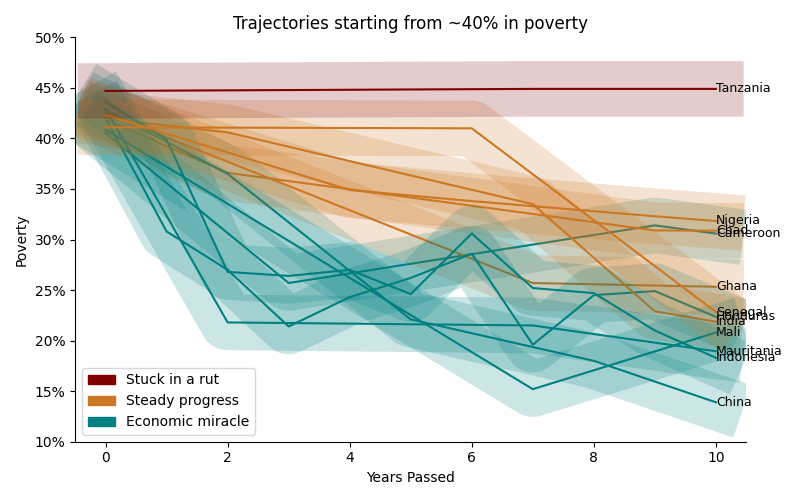
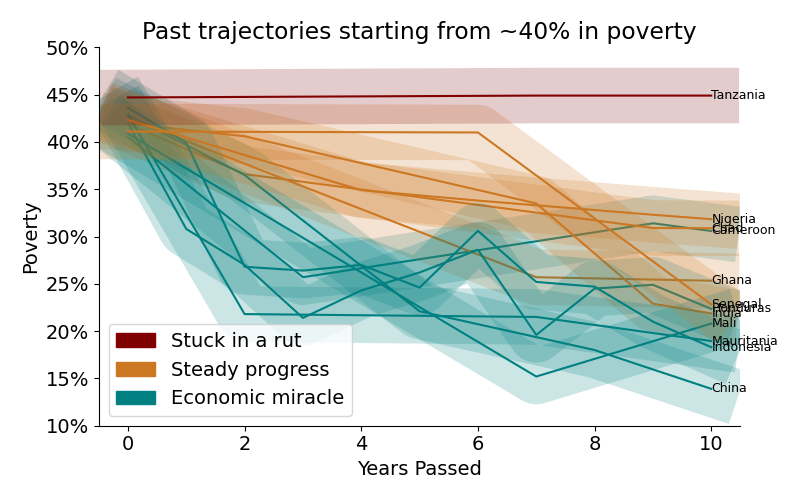
tidy up code

diff --git a/gbtm.py b/gbtm.py
@@ -6,39 +6,54 @@ from matplotlib.ticker import FuncFormatter
 import matplotlib.pyplot as plt
 import seaborn as sns
 import matplotlib.patches as mpatches
+import matplotlib as mpl
+from process_data import read_and_rename_raw_data
 
-from process_data import rename_raw_data
+# ----- Script for looking at individual country: and exploring its future poverty using GBTM of other countries in the past
+# ************ Needs refactoring to work for general case of any country - currently hard coded for Uganda *****************
 
-df_renamed = rename_raw_data()
+df_renamed = read_and_rename_raw_data()
 
+
+# Quick look at Uganda
 df_uganda = df_renamed[df_renamed["country"]=="Uganda"]
 df_uganda = df_uganda[["country", "date", "Poverty headcount ratio at $2.15 a day (2017 PPP) (% of population)", "GDP per capita (current US$)"]]
 df_uganda = df_uganda.dropna()
 
 print(df_uganda[df_uganda["date"]==2019])
 
-
 GDP_RANGE = [750, 2000]
+
+# Uganda's most recent poverty is 42% so looking either side
 POVERTY_STARTING_POINT_RANGE=[37, 47]
 
 def percent_formatter(x, pos):
     return f"{x:.0f}%"
 
+# plotting Uganda's poverty trajectory to date
 fig = plt.figure(figsize=(6, 2))
 plt.plot(df_uganda['date'].values, df_uganda["Poverty headcount ratio at $2.15 a day (2017 PPP) (% of population)"].values, color='#008080')
 plt.title('Uganda: Poverty trajectory to date')
 plt.ylabel('Poverty')
 plt.ylim(35, 80)
+plt.xlim(1992, 2020)
+plt.axvspan(1990, 2002, color='#800000', alpha=0.1)
+plt.text(1995, plt.ylim()[1]*0.9, 'Phase 1', fontsize=10, ha='left')
+plt.axvspan(2002, 2012, color='#008080', alpha=0.1)
+plt.text(2005, plt.ylim()[1]*0.9, 'Phase 2', fontsize=10, ha='left')
+plt.axvspan(2012, 2020, color='#800000', alpha=0.1)
+plt.text(2013, plt.ylim()[1]*0.9, 'Phase 3', fontsize=10, ha='left')
 plt.gca().yaxis.set_major_formatter(FuncFormatter(percent_formatter))
 fig.savefig('figs/Uganda_past.png', dpi=fig.dpi)
 plt.show()
 
+
 def interpolate_and_mark(df):
     """function to interpolate between values for poverty and gdp per capita"""
     df = df.reset_index(drop=True)
-
     # Define function to interpolate and mark within each group
     def group_interpolate_and_mark(group):
+
         # Detect original NaNs for poverty and GDP - keep track of which values are interpolated and which were original
         poverty_nan_mask = group['poverty'].isna()
         gdp_nan_mask = group['GDP per capita (current US$)'].isna()
@@ -84,7 +99,7 @@ def countries_of_interest(df, gdp_range = GDP_RANGE, poverty_range=POVERTY_START
     return(df["country"].unique())
 
 
-# plotting countries to compare to Uganda's past
+# Extracting the historic trajectories for chosen countries 
 def find_trajectories(df, countries, start_poverty_level = 42):
     """function that finds creates dataframe of trajectories based on a year 0 corresponding to the starting poverty level"""
     # Filter to include only the chosen countries
@@ -125,8 +140,8 @@ def gbtm(df, number_of_groups=3):
     scaler = StandardScaler()
     scaled_data = scaler.fit_transform(pivot_data)
 
-    # Fit a Gaussian Mixture Model
-    # The number of trajectories you hypothesize
+    # Fit a gaussian mixture model
+    # The number of clusters or groups can be adjusted
     n_clusters = number_of_groups
     gmm = GaussianMixture(n_components=n_clusters, random_state=0)
     gmm.fit(scaled_data)
@@ -134,16 +149,17 @@ def gbtm(df, number_of_groups=3):
     # Predict the cluster for each country
     clusters = gmm.predict(scaled_data)
 
-    # Add the cluster labels to the DataFrame
+    # Add the cluster labels to the dataframe
     pivot_data['Cluster'] = clusters
 
     original_data = scaler.inverse_transform(scaled_data)
     original_data_df = pd.DataFrame(original_data, index=pivot_data.index, columns=pivot_data.columns[:-1])
 
-    # Add cluster information back to the DataFrame with original data
+    # Add cluster information back to the dataframe with original data
     original_data_df['Cluster'] = clusters
     palette = ["#CC7722", "#800000", "#008080"]
     # Set up the plot
+    mpl.rcParams.update({'font.size': 14})
     fig = plt.figure(figsize=(8, 5))
     
     # Plot each country's poverty trajectory
@@ -152,12 +168,13 @@ def gbtm(df, number_of_groups=3):
         plt.plot(row.index[:-1].values, row.values[:-1], linewidth=40, color=palette[int(row["Cluster"])], alpha=0.2, label='_nolegend_')
         plt.text(row.index[-2], row.values[-2], index, fontsize=9, va='center', ha='left')
     
-    # Enhance the plot
-    plt.title('Trajectories starting from ~40% in poverty')
+    # improve the plot
+    plt.title('Past trajectories starting from ~40% in poverty')
     plt.xlabel('Years Passed')
     plt.ylabel('Poverty')
     plt.legend(title='Cluster', bbox_to_anchor=(1.05, 1), loc='upper left')
     sns.despine()
+    # Define memorable names for each cluster
     patch1 = mpatches.Patch(color='#800000', label='Stuck in a rut')
     patch2 = mpatches.Patch(color='#CC7722', label='Steady progress')
     patch3 = mpatches.Patch(color='#008080', label='Economic miracle')
@@ -170,7 +187,7 @@ def gbtm(df, number_of_groups=3):
     return(pivot_data)
 
 
-df_renamed = rename_raw_data()
+df_renamed = read_and_rename_raw_data()
 df_clean = clean_data_for_trajectory_analysis(df_renamed)
 
 chosen_countries = countries_of_interest(df_clean)

diff --git a/causes_of_poverty.py b/causes_of_poverty.py
@@ -4,11 +4,14 @@ import statsmodels.api as sm
 import matplotlib.pyplot as plt
 from matplotlib.ticker import FuncFormatter
 import matplotlib as mpl
+from process_data import read_and_rename_raw_data, max_recent_yr
 
-from process_data import rename_raw_data, max_recent_yr
+
+# ----- Script for exploring factors (through linear regression) that cause poverty within the GDP corridor ---
 
 GDP_RANGE = [750, 2000]
 
+# variables chosen to explore
 VARS_OF_INTEREST = [
     "Access to electricity (% of population)",
     "Age dependency ratio (% of working-age population)",
@@ -28,6 +31,7 @@ VARS_OF_INTEREST = [
     "Ores and metals exports (% of merchandise exports)"
 ]
 
+# vairables that need to be adjuster for population of the country
 VARS_TO_ADJUST_PER_POP = [
     "Armed forces personnel, total",
     "Foreign direct investment, net inflows (BoP, current US$)",
@@ -35,7 +39,7 @@ VARS_TO_ADJUST_PER_POP = [
 ]
 
 def relevant_metrics_data(df):
-    #select relevant cols
+    """function to select relevant variables for analysis and adjust for population where needed"""
     df = df[["country", "date", "Population, total", "Poverty headcount ratio at $2.15 a day (2017 PPP) (% of population)"]+ VARS_OF_INTEREST + VARS_TO_ADJUST_PER_POP]
     df[VARS_TO_ADJUST_PER_POP] =  df[VARS_TO_ADJUST_PER_POP].div(df['Population, total'], axis=0)
     shortened_metric = {
@@ -44,17 +48,18 @@ def relevant_metrics_data(df):
     df.rename(columns=shortened_metric, inplace=True)
     return(df)
 
-def filter_in_window_of_interest(df, gdp_range=GDP_RANGE):
+def filter_in_corridor_of_interest(df, gdp_range=GDP_RANGE):
+    """function to look only at countries within our corridor of interest"""
     df = df[(df['GDP per capita (current US$)'] > gdp_range[0]) & (df['GDP per capita (current US$)'] < gdp_range[1])]
     return(df)
 
 def percent_formatter(x, pos):
     return f"{x:.0f}%"
 
-def analyze_poverty_relationship_and_plot(df, dependent_var='poverty', min_r2 = 0.01):
+def analyse_poverty_relationship_and_plot(df, dependent_var='poverty', min_r2 = 0.01):
     # Replace infinities with NaN
     df = df.replace([np.inf, -np.inf], np.nan)
-    
+
     # Specifying predictors excluding 'country' and dependent variable
     predictors = [col for col in df.columns if col not in ['country', dependent_var]]
     
@@ -85,7 +90,7 @@ def analyze_poverty_relationship_and_plot(df, dependent_var='poverty', min_r2 = 
             'P-Value': model.pvalues[1]
         })
 
-        # Plot if R-squared > above threshold using actual values
+        # Plot if R-squared > above threshold using actual rather than normalised values
         if r_squared > min_r2:
             # Actual data for plotting
             actual_x = subset[predictor].values
@@ -111,12 +116,12 @@ def analyze_poverty_relationship_and_plot(df, dependent_var='poverty', min_r2 = 
     return results_df
 
 
-df_renamed = rename_raw_data()
+df_renamed = read_and_rename_raw_data()
 df_simplified = relevant_metrics_data(df_renamed)
 max_year_poverty_by_country = max_recent_yr(df_simplified)
-in_range_countries = filter_in_window_of_interest(df_simplified)
+in_range_countries = filter_in_corridor_of_interest(df_simplified)
 
-regression_table = analyze_poverty_relationship_and_plot(in_range_countries)
+regression_table = analyse_poverty_relationship_and_plot(in_range_countries)
 regression_table = regression_table[regression_table["R-squared"] > 0.2]
 
 print(regression_table)

diff --git a/process_data.py b/process_data.py
@@ -1,5 +1,6 @@
 import pandas as pd
 
+# We are only interested in individual countries not regions
 EXLCUDED_REGIONS = [
     "Africa Western and Central",
     "Africa Eastern and Southern",
@@ -47,19 +48,21 @@ EXLCUDED_REGIONS = [
     "Upper middle income",
     "Not classified"] 
 
-def rename_raw_data(raw_data_filepath = "data/data_manager.csv", indicator_ids_filepath = "data/indicator_ids.csv"):
-    #read in data
+def read_and_rename_raw_data(raw_data_filepath = "data/data_manager.csv", indicator_ids_filepath = "data/indicator_ids.csv"):
+    """function to read in raw data, remove regions and rename indicator codes with their actual descriptions for easier interpretation"""
+    # read in raw fata
     df_raw = pd.read_csv(raw_data_filepath)
     df_indicator = pd.read_csv(indicator_ids_filepath)
+    # exlcude regions from dataset
     df_raw = df_raw[~df_raw['country'].isin(EXLCUDED_REGIONS)]
-    #rename columns
+    # rename columns
     indicator_codes = set(df_raw.columns)
     df_indicator_filtered = df_indicator[df_indicator['indicator_id'].isin(indicator_codes)]
     code_to_metric = dict(zip(df_indicator_filtered['indicator_id'], df_indicator_filtered['indicator']))
     df_raw.rename(columns=code_to_metric, inplace=True)
     return(df_raw)
 
-# llooking only at the most recent data for each country 
+# looking only at the most recent poverty data for each country 
 def max_recent_yr(df, min_yr = 2015):
     df = df[df['poverty'].notnull()]
     df = df[df["date"] >= min_yr]

diff --git a/explore_data.py b/explore_data.py
@@ -1,30 +1,17 @@
 import pandas as pd
 
+
+# -----------------ROUGH EXPLORATION OF DATA ----------------------
+
+
 raw_data_filepath = "data/data_manager.csv"
 indicator_ids_filepath =  "data/indicator_ids.csv"
-# process data manager 
-def process_poverty_data():
-    # read in raw data
-    df_raw = pd.read_csv(raw_data_filepath)
-
-    # read in indicator details 
-    df_indicator = pd.read_csv(indicator_ids_filepath)
-
-    #rename column headers
-    code_to_metric = dict(zip(df_indicator['indicator_id'], df_indicator['indicator']))
-
-    df_renamed = df_raw.rename(columns=code_to_metric, inplace=True)
-
-    return(df_renamed)
-
-
 
 df_raw = pd.read_csv(raw_data_filepath)
 df_indicator = pd.read_csv(indicator_ids_filepath)
 
 indicator_codes = set(df_raw.columns)
 
-# Step 3: Filter df2 to include only indicator codes present in df1
 df_indicator_filtered = df_indicator[df_indicator['indicator_id'].isin(indicator_codes)]
 
 code_to_metric = dict(zip(df_indicator_filtered['indicator_id'], df_indicator_filtered['indicator']))

diff --git a/country_distribution.py b/country_distribution.py
@@ -2,12 +2,15 @@ import matplotlib.pyplot as plt
 import matplotlib.ticker as ticker
 from matplotlib.ticker import FuncFormatter
 import matplotlib as mpl
+from process_data import read_and_rename_raw_data, max_recent_yr
 
-from process_data import rename_raw_data, max_recent_yr
 
-GDP_RANGE = [740, 2000]
+# ----- Script for plotting distribution of countries poverty in relation to GDP per Capita ----
 
-# select columns we're interested in for looking at disrribution
+# the corridor of variation
+GDP_RANGE = [750, 2000]
+
+# select columns we're interested in for looking at distribution
 def simplify_data(df):
     #rename cols
     df = df[["country", "date", "Poverty headcount ratio at $2.15 a day (2017 PPP) (% of population)", "GDP per capita (current US$)", "Population, total"]]
@@ -66,7 +69,7 @@ def make_focus_plot(df, gdp_range=GDP_RANGE):
 
 
 
-df_renamed = rename_raw_data()
+df_renamed = read_and_rename_raw_data()
 df_simplified = simplify_data(df_renamed)
 max_year_poverty_by_country = max_recent_yr(df_simplified)
 

diff --git a/README.md b/README.md
@@ -9,10 +9,10 @@ Contact Robert Johnson at robertjohnson401@gmail.com if you have any queries or 
 
 ## Features
 - **Data Processing**: Functions for reading in the raw data and doing some processing
-- **Exploratory Data Analysis**: very rough script used for inital scoping analysis
+- **Exploratory Data Analysis**: very rough script used for inital scoping and completion of fields
 - **Poverty Distribution Analysis**: Investigates the distribution of poverty and the relationship with gdp per capita
-- **Predictor Analysis**: Regression analyssi of variables that could contribute to poverty levels. (Based on countries within a narrow range of GDP per capita)
-- **Group Based Trajectory Modeling**: Uses a GBTM to cluster histroic poverty trajectories with a view to thinking about possible futures
+- **Predictor Analysis**: Regression analysis of variables that could contribute to poverty levels. (Based on countries within a narrow range of GDP per capita)
+- **Group Based Trajectory Modeling**: Uses a GBTM to cluster historic poverty trajectories with a view to thinking about possible future forecasts
 
 
 ### Prerequisites
